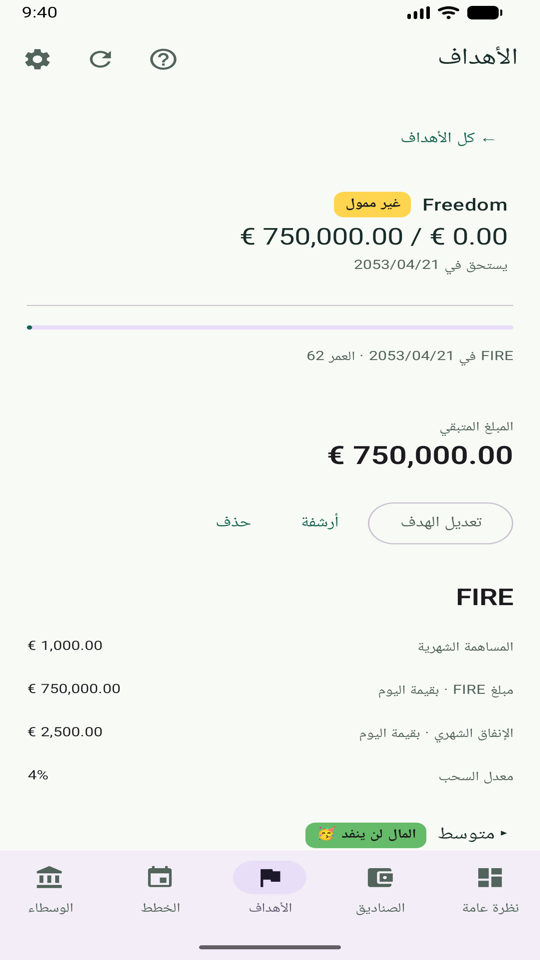
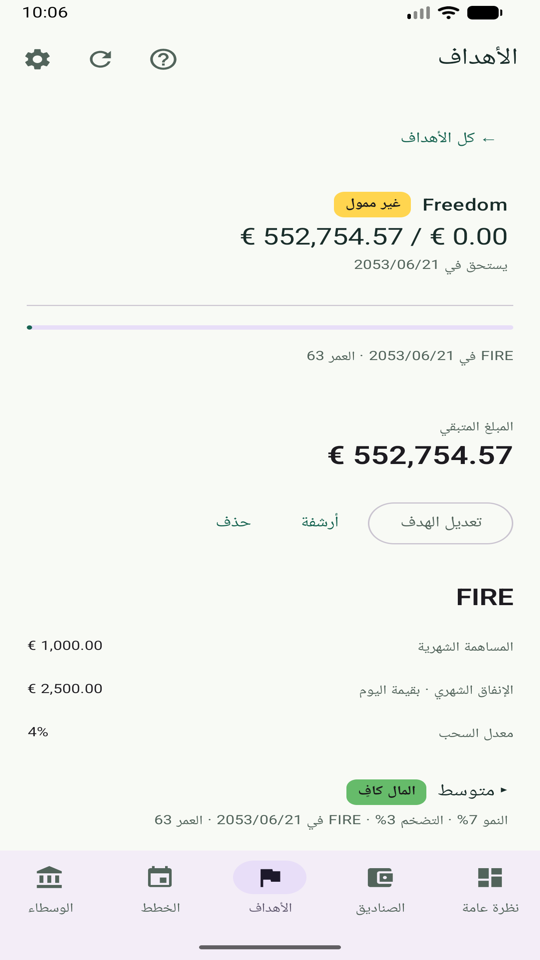
FIRE goal: screenshots in 15 languages with derived dates in the captions; spec
Claude-Session: https://claude.ai/code/session_01CuZNtgo8h4dLdCNeaF2jyS

diff --git a/openspec/specs/fire-goal/spec.md b/openspec/specs/fire-goal/spec.md
@@ -8,8 +8,8 @@ FIRE goal type: solver, scenarios, burndown and live inflation and market-growth
 A goal MAY be of type FIRE. It SHALL accept a birth date, a FIRE date, a recurring contribution (amount per week, two weeks, month, year or N days), a monthly spend after FIRE and an amount to have after FIRE, all in today's money of the goal currency. FIRE date, contribution, target and spend MAY each be blank. A contribution growth percent per year MAY be given; when blank the contribution SHALL keep its purchasing power.
 
 #### Scenario: Derive the FIRE date
-- **WHEN** target and contribution are given and the FIRE date is blank
-- **THEN** the goal's due date becomes the first month in which the accumulated value reaches the inflated target under the average scenario, and the screen shows the date for all three scenarios.
+- **WHEN** the FIRE date is blank and the spend is known (given, or from the target)
+- **THEN** each scenario derives it as the first month from which the spend lasts until life expectancy (50 years without a birth date) and, when a target was given, the target is reached; the goal's due date takes the average scenario's date and each scenario's caption shows its own.
 
 #### Scenario: Derive the contribution
 - **WHEN** target and FIRE date are given and the contribution is blank

diff --git a/openspec/changes/archive/2026-10-21-add-fire-goal/proposal.md b/openspec/changes/archive/2026-10-21-add-fire-goal/proposal.md
@@ -5,6 +5,7 @@ Goals say what to save by when. They cannot answer the question a long-term save
 ## What Changes
 
 - A goal can be of type **FIRE**. Its editor adds: birth date, FIRE date, contribution ("I can invest X per week / 2 weeks / month / year / N days"), monthly spend after FIRE, and the amount to have after FIRE (the goal target). Each of FIRE date, contribution, target and spend may be left blank; the app derives what it can from the rest and says what is missing.
+- **Lifetime-based FIRE date** (v2.14.0): a blank FIRE date is derived so the money lasts until life expectancy; captions show it.
 - **Foldable scenarios** (v2.13.0): shared inputs once, one fold per scenario with a status badge.
 - **Contribution growth % per year** (v2.12.0): a yearly raise of the contribution; blank keeps its purchasing power.
 - **Advanced** section with defaults taken from public sources: inflation 3 % (optimistic 2, pessimistic 5), growth 7 % (optimistic 10, pessimistic 4), withdrawal rate 4 %, life expectancy 95. All overridable per goal.
